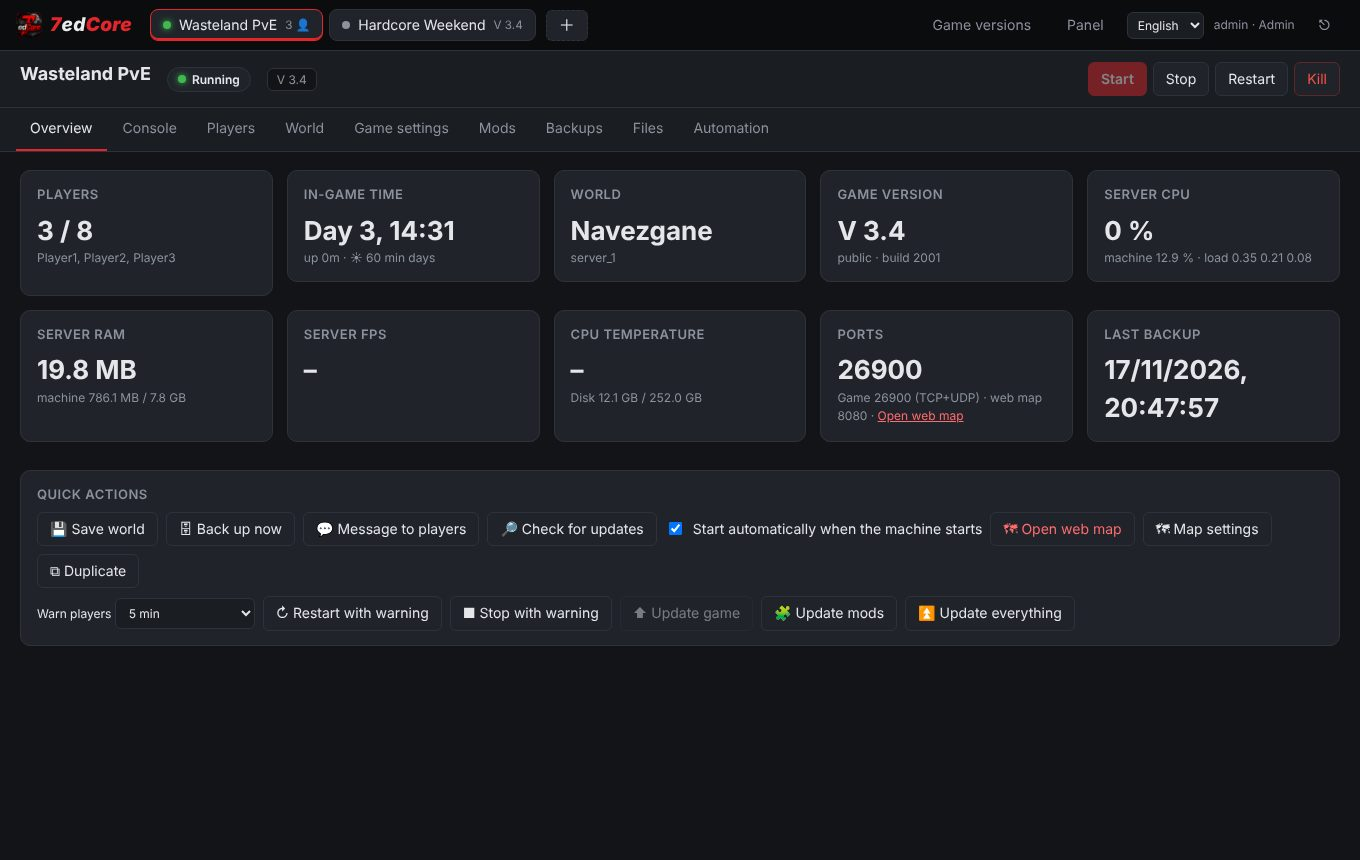
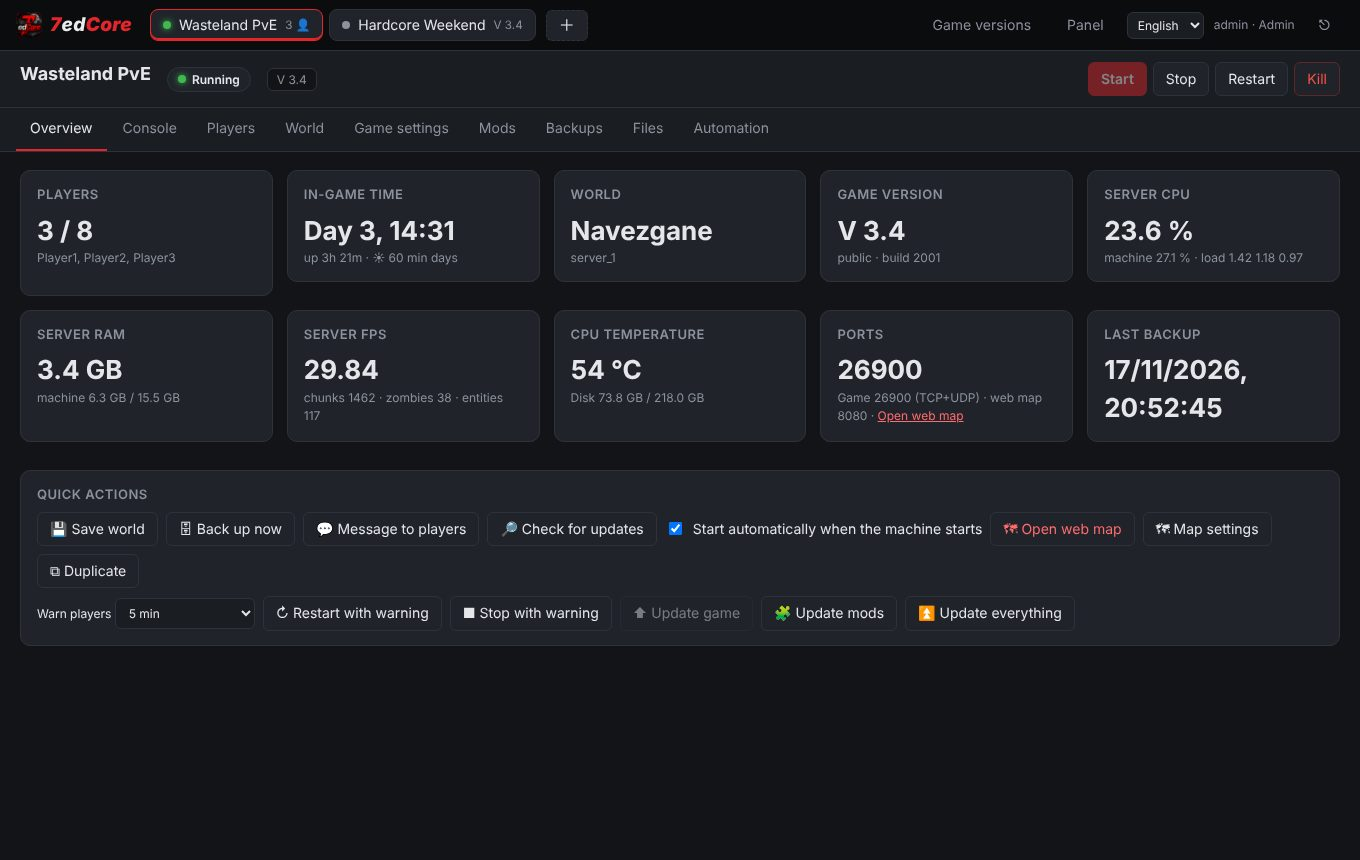
README: overview screenshot with every info tile filled
Claude-Session: https://claude.ai/code/session_0181yVf7NmNxz71g3zciy3b8

diff --git a/tests/screenshots.py b/tests/screenshots.py
@@ -104,6 +104,16 @@ async def shots(iid):
         await shot("mod-config", clip_sel="#dlg")
         await pg.keyboard.press("Escape"); await pg.wait_for_timeout(500)
         await tab("overview")
+        # the sandbox running the fake server has no CPU sensor and the fake process is idle:
+        # fill the tiles with typical values of a real server so every tile shows something
+        await pg.evaluate("""() => {
+          const g = 1024 ** 3;
+          S.stats = { ...S.stats, srv_cpu: 23.6, srv_mem: 3.4 * g, cpu_temp: 54, host_cpu: 27.1, host_mem: 6.3 * g, host_mem_total: 15.5 * g,
+                      load: [1.42, 1.18, 0.97], disk_used: 73.8 * g, disk_total: 218 * g };
+          S.status.meminfo = { fps: "29.84", chunks: "1462", zombies: "38", entities: "117", items: "6" };
+          S.status.started_at = Date.now() / 1000 - 3 * 3600 - 1260;
+          renderOverview();
+        }""")
         await shot("overview")
         await pg.click("[data-q=webmap]"); await pg.wait_for_timeout(900)
         await shot("webmap", clip_sel="#dlg")
